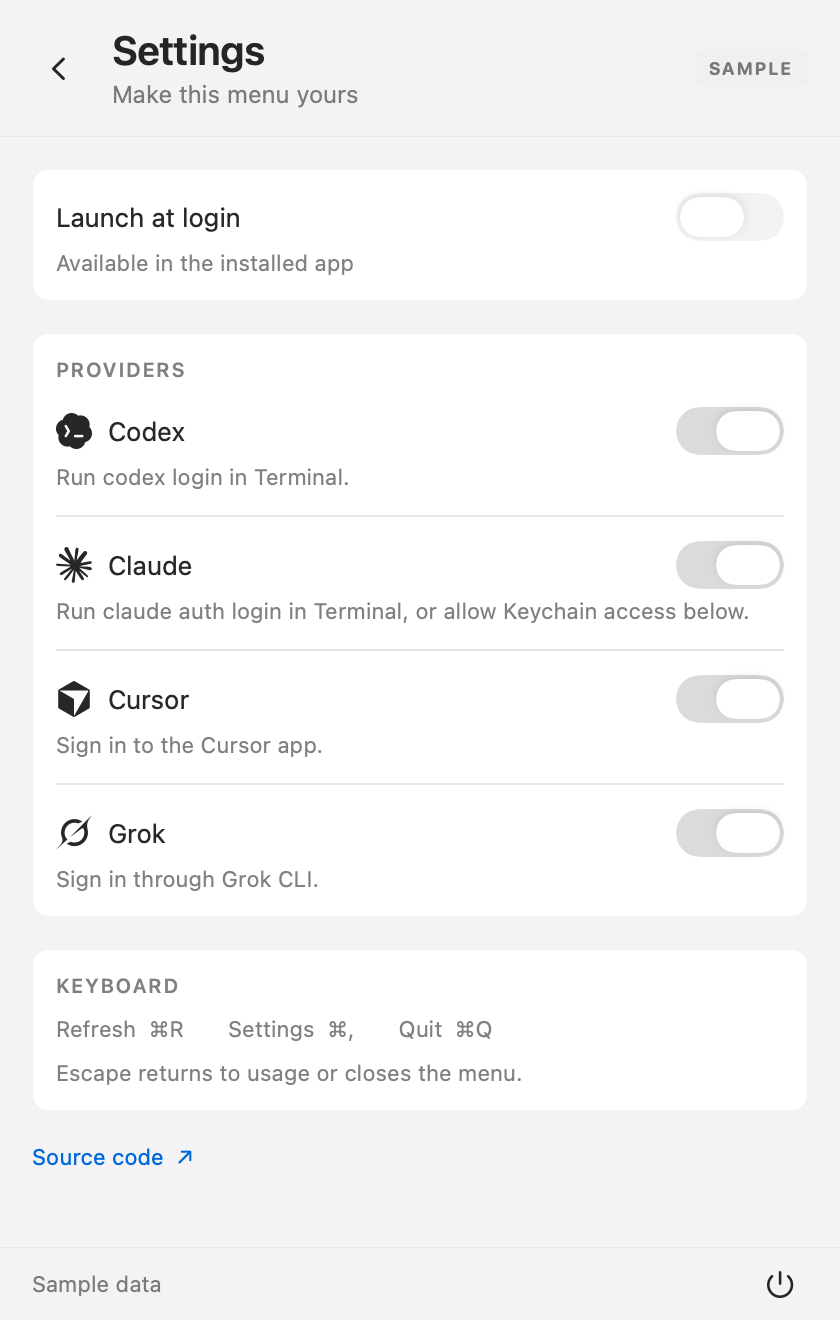
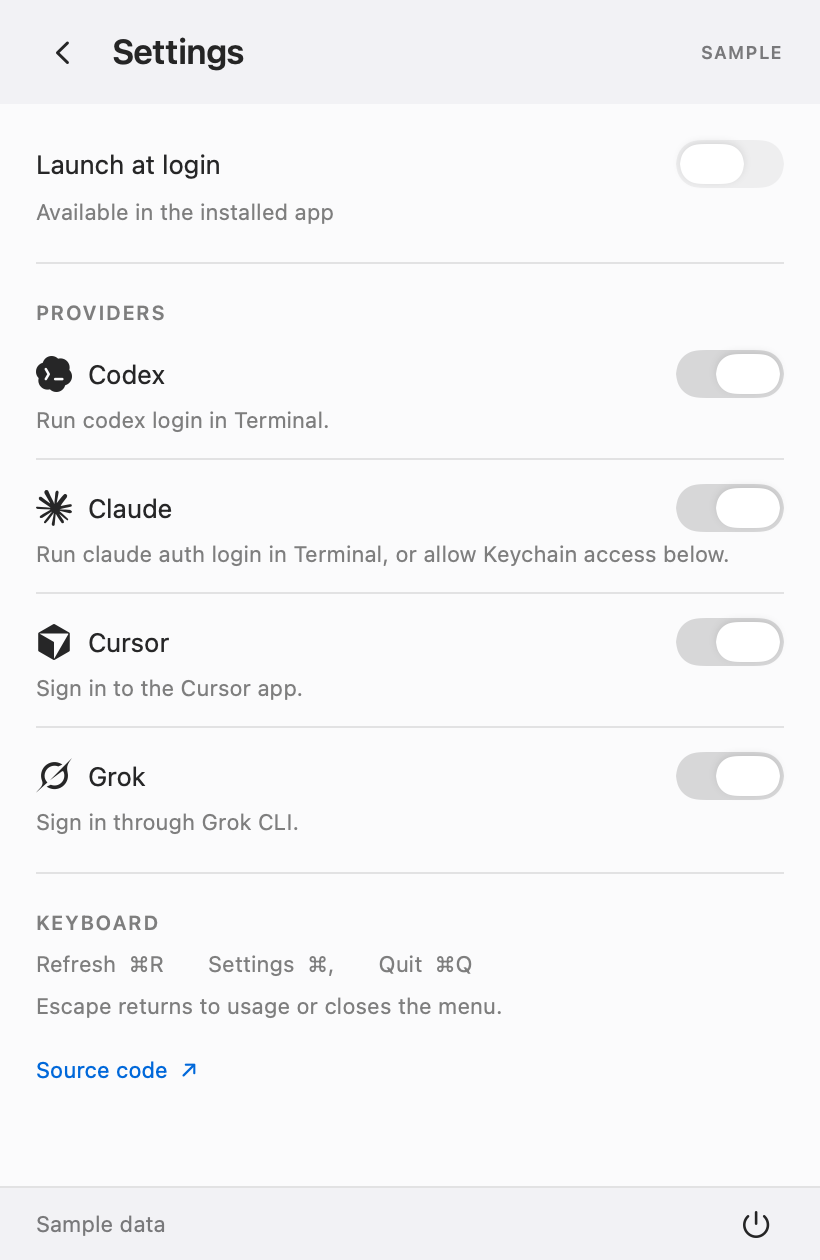
docs: record QuotaBar design and installed verification

diff --git a/docs/VERIFICATION.md b/docs/VERIFICATION.md
@@ -1,21 +1,21 @@
-# Verification — v0.2.0
+# Verification — QuotaBar 0.2.0
 
-Verified on Apple silicon, macOS 26.5, Swift 6.3.3. Measurements are short local samples, not guarantees across all Macs or provider responses.
+Verified on Apple silicon, macOS 26.5, Swift 6.3.3. Measurements are short local samples, not guarantees across Macs or provider responses.
 
-- 27 synthetic behavior tests pass, covering provider JSON contracts, malformed/unknown responses, credential selection and expiry, percentages/currency units, retry bounds, and account-change state. The provider parser/client sources are unchanged in this release.
-- Independent code review approved implementation commit `6f3ef18`, including manual-only fetching, connection throttling, disclosure state, accessibility labels, keyboard monitor lifetime, and asset packaging.
-- Release packaging succeeds. `codesign --verify --strict` passes for both the packaged and installed ad hoc signed app; version is 0.2.0, build 2, and `LSUIElement` remains true.
-- Installed lifecycle probe reports `launch=ok statusItem=ok hostingView=ok size=420x660 checks=0 login=On`. Normal startup creates no usage checks. Source inspection confirms there are no polling/countdown timers or startup/wake/provider-toggle fetch calls.
-- Installed app-owned keyboard probe reports `anchor=true shown=true window=true appActive=true keyWindow=true settings=true escapeBack=true escapeDismiss=true`. It delivers synthetic events through AppKit to the actual local monitor. It uses sample data and makes no usage requests.
-- Native SwiftUI views were rendered as opaque 840×1320 PNGs and visually inspected in light, dark, settings, mixed error/unknown/zero, empty, expanded-details, and initial manual-refresh states. All four providers and their main reset times fit in the default summary. See [light](images/usage-light.png), [dark](images/usage-dark.png), and [settings](images/settings.png) previews; all contain synthetic data.
-- The packaged app rendered provider logos with its SwiftPM build resource bundle temporarily unavailable, confirming the installed assets are self-contained. License notices ship in the bundle.
-- Installed app: 1,564 KiB (about 1.5 MiB). Cold idle samples with the panel closed reported 0.0% CPU and 39.5–42.1 MiB RSS. macOS `sample` reported an 11.7 MiB physical footprint (11.9 MiB peak), excluding shared resident pages. No TCP sockets were open in the idle sample. Opening the panel and checking usage can increase memory use; the figures are not a claim of zero memory or permanent zero CPU.
-- Native desktop automation could not inspect the app because the tool timed out. Native renders and the app-owned keyboard probe cover layout, startup, key-window focus, Settings, and Escape; they do not claim end-to-end mouse/VoiceOver verification of every control.
-- Launch-at-login status was checked through `SMAppService`; no logout/reboot was performed. Existing preference choices are preserved.
+- **30 synthetic behavior tests pass.** Coverage includes provider response contracts, missing/malformed data, credential expiry and selection, used/remaining percentages and tiny nonzero values, currency units, retry bounds, and account changes. New fixtures cover Claude Max 5x/20x, generic and contradictory metadata, and 9%/71% used versus 91%/29% remaining.
+- Independent review approved code at `d3c2d411`, including plan metadata tied to the fetch credential, used-progress semantics, effective 429 retry times, first-check failure versus stale data, typed Keychain permission actions, login migration, resource packaging, and local keyboard-monitor lifetime.
+- Release packaging and `codesign --verify --strict` pass for the packaged and installed app. Version 0.2.0, build 3; `LSUIElement` remains true. The installed app contains only the QuotaBar executable, with no obsolete executable or icon left by the rename.
+- Installed startup probe: `launch=ok statusItem=ok hostingView=ok size=410x630 checks=0 login=On`. Startup makes no usage checks. Source review confirms no polling/countdown timers or startup/wake/provider-toggle fetches.
+- Installed app-owned keyboard probe: `anchor=true shown=true window=true appActive=true keyWindow=true settings=true escapeBack=true escapeDismiss=true`. It sends synthetic events through AppKit to the actual local monitor, with sample data and no provider requests.
+- Actual SwiftUI views were rendered as opaque 820×1260 PNGs and inspected in light, dark, settings, mixed/stale/unknown/zero, initial, empty, expanded, first-check failure, and Keychain-permission states. All four providers and primary reset times fit in the connected summary. [Light](images/usage-light.png), [dark](images/usage-dark.png), and [settings](images/settings.png) previews contain only synthetic data. Offscreen native switches can render inactive gray; their on/off knob positions remain visible.
+- Installed footprint: **1,388 KiB (about 1.4 MiB)**. Cold idle panel-closed samples reported **0.0% CPU**, about **39.5 MiB RSS**, and **11.2 MiB physical footprint** (11.7 MiB peak reported by macOS `sample`). No TCP sockets were open. Opening the panel and fetching usage may increase memory; these figures do not mean zero memory or permanent zero CPU.
+- Launch-at-login remains On through `SMAppService`; macOS background-task registration points to `QuotaBar.app`. The old installed app path is gone. The original bundle identifier is intentionally retained to preserve preferences and registration identity. No logout/reboot was performed.
 
-## Provider integration evidence
+## Live provider check
 
-The v0.1.0 live checks returned real Codex, Claude, and Cursor usage through existing local sessions. This visual/manual-refresh release did not repeat live provider requests automatically. Grok remains fixture-tested; a working Grok CLI login is needed for a live result. No account identities, authentic quotas, or credentials are stored in this repository.
+An explicit, one-off diagnostic check of the installed build returned live Codex, Claude and Cursor usage. Claude correctly reported Max (20x), with session and all-model weekly usage. It required no additional request for plan metadata. Grok did not have a working local sign-in and remains fixture-tested. No authentic quota values, account identities, credentials or live screenshots are saved in this repository.
+
+The application does not repeat that diagnostic on startup or in the background. Routine checks require the user's Refresh or Connect action.
 
 ## Reproduce
 
@@ -23,24 +23,28 @@ The v0.1.0 live checks returned real Codex, Claude, and Cursor usage through exi
 swift test
 ./Scripts/package.sh
 ./Scripts/install.sh
-"$HOME/Applications/Oda Limits.app/Contents/MacOS/OdaLimits" --smoke-test
-"$HOME/Applications/Oda Limits.app/Contents/MacOS/OdaLimits" --interaction-smoke-test
-.build/release/OdaLimits --render-demo /tmp/oda-limits-light.png --appearance light
-.build/release/OdaLimits --render-demo /tmp/oda-limits-dark.png --appearance dark
-.build/release/OdaLimits --render-demo /tmp/oda-limits-settings.png --settings
-.build/release/OdaLimits --render-demo /tmp/oda-limits-mixed.png --scenario mixed
-.build/release/OdaLimits --render-demo /tmp/oda-limits-expanded.png --scenario expanded
-.build/release/OdaLimits --render-demo /tmp/oda-limits-initial.png --scenario initial
+"$HOME/Applications/QuotaBar.app/Contents/MacOS/QuotaBar" --smoke-test
+"$HOME/Applications/QuotaBar.app/Contents/MacOS/QuotaBar" --interaction-smoke-test
+.build/release/QuotaBar --render-demo /tmp/quotabar-light.png --appearance light
+.build/release/QuotaBar --render-demo /tmp/quotabar-dark.png --appearance dark
+.build/release/QuotaBar --render-demo /tmp/quotabar-settings.png --settings
+.build/release/QuotaBar --render-demo /tmp/quotabar-mixed.png --scenario mixed
+.build/release/QuotaBar --render-demo /tmp/quotabar-expanded.png --scenario expanded
+.build/release/QuotaBar --render-demo /tmp/quotabar-initial.png --scenario initial
+.build/release/QuotaBar --render-demo /tmp/quotabar-failed.png --scenario failed
+.build/release/QuotaBar --render-demo /tmp/quotabar-keychain.png --scenario keychain
 ```
 
-Normal installed smoke testing can register launch at login, like a normal app launch, but does not fetch usage. Add `--demo` to avoid changing system preferences. The interaction probe always uses demo data. A live diagnostic check is available through the explicit `--diagnostics` command.
+A normal installed smoke test can register launch at login, like a normal launch, but never fetches usage. Add `--demo` to avoid system preference changes. The interaction probe always uses demo data. `--diagnostics` explicitly performs live provider checks without Keychain prompts or raw response logging.
 
-## Implementation notes
+## Boundaries and implementation notes
 
-`NSApplication.delegate` is weak. Keep the delegate alive explicitly for the whole `app.run()` lifetime. Initial popover display is deferred briefly so the new status item has attached to its window. The keyboard monitor is local to the key popover and is removed when it closes.
+Native desktop automation timed out earlier in this task. Native rendering and the app-owned probe cover layout, startup, focus, Settings and Escape; they do not establish end-to-end mouse or VoiceOver coverage of every control.
 
-Use eager layout for the four provider cards and initialize disclosure state once. Reapplying the initial value in a lazy card's `onAppear` reset expanded details when scrolling.
+`NSApplication.delegate` is weak: keep it alive for `app.run()`. Defer initial popover display until the status item attaches to its window. Keep the event monitor local to this key popover and remove it on close. Initialize disclosure state once so scrolling does not reset it.
 
-On a first installation, `SMAppService.mainApp.status` can be `.notFound`. Attempt initial registration for both `.notFound` and `.notRegistered`; preserve the preference marker so a later choice to disable startup remains respected.
+The first installed `SMAppService` status may be `.notFound`; register it on first launch. On rename, re-register an already-enabled login item at the new location without turning an explicit Off back on. Retain a migration marker if registration fails so a later launch can retry. Replacing bundle Contents during installation avoids old executable/resource files surviving a directory merge.
 
-Provider usage endpoints are not a stable public cross-provider API. Optional values remain unknown, empty/unrecognized responses are rejected, and fixture coverage should be updated when schemas change. Explicit manual checks still honor provider 429 retry limits.
+Provider usage endpoints are undocumented contracts. Missing values stay unknown and unrecognized responses are rejected. Claude plan metadata can lag subscription changes until the provider refreshes the local sign-in. Explicit manual checks still respect 429 cooldowns, and the displayed retry time matches the actual enforced cooldown.
+
+The GitHub workflow uses the standard Intel macOS 15 runner after ARM jobs failed to acquire runners. AppKit image caches are main-actor isolated so both the older CI SDK and the local SDK compile without suppressing concurrency checks. Local runtime verification covers Apple silicon.

diff --git a/SPEC.md b/SPEC.md
@@ -1,21 +1,21 @@
-# Oda Limits
+# QuotaBar
 
 ## Objective and scope
-A personal, open-source, native macOS menu bar utility for the user's Codex, Claude, Cursor, and Grok subscriptions. One icon opens four compact cards with authoritative usage, remaining allowance, reset countdown and local reset date, plan, credit/spend details where supplied, connection/freshness status, refresh, and provider dashboard links. Launch at login is enabled on first installed launch, with a visible toggle to disable it. One current account per installed provider; no multi-account management in v0.1.
+A personal, open-source, native macOS menu bar utility for the user's Codex, Claude, Cursor, and Grok subscriptions. One icon opens four compact provider sections with authoritative usage, remaining allowance, reset countdown and local reset date, plan, credit/spend details where supplied, connection/freshness status, refresh, and provider dashboard links. Launch at login is enabled on first installed launch, with a visible toggle to disable it. One current account per installed provider; no multi-account management in v0.1.
 
-The user authorized building and installing this utility and creating a public repository under odaofficial. The implementation is separate from the Oda application checkout. Repository: https://github.com/odaofficial/oda-limits. Product name: Oda Limits. Bundle identifier: org.odaofficial.limits. MIT license, copyright Oda contributors.
+The user authorized building and installing this utility and creating a public repository under odaofficial. The implementation is separate from the Oda application checkout. Repository: https://github.com/odaofficial/quotabar. Product name: QuotaBar. The legacy bundle identifier org.odaofficial.limits is retained only to preserve preferences and login registration across the rename. MIT license, copyright Oda contributors.
 
 ## Architecture and resource budget
 Swift 6 / SwiftPM, macOS 14+, AppKit status item and SwiftUI popover. Only system frameworks: Foundation, AppKit, SwiftUI, Security, ServiceManagement, SQLite3 as needed. No third-party packages, embedded browser, node runtime, cloud service, analytics, LLM calls, background subprocess daemon or history scans.
 
 Use existing local provider sessions read-only. Prefer direct authenticated read-only HTTP usage endpoints over launching provider CLIs. Never refresh or modify provider-owned tokens. If expired, display concrete sign-in instructions and let the provider refresh its own credentials. Read credentials off the main thread; Keychain prompting only through explicit user action. Credentials only in memory; no secret or identifying response bodies in logs, tests, docs, diagnostics, Git, command arguments, or URLs. No credential import UI or copying of tokens into app preferences. Network requests go only to each provider's fixed HTTPS origin; reject redirects to other origins. Ephemeral URLSession with bounded request timeout and response size. Handle 401/403/429, Retry-After/backoff, non-JSON and changed response contracts honestly.
 
-Usage checks are manual only, triggered by Refresh or explicit Claude connection. Startup, waking the Mac, opening the panel, and changing enabled providers never fetch data. No polling or countdown timers. Relative reset labels update when opening the panel or refreshing; exact reset times remain available in tooltips. Manual refresh is throttled to avoid accidental hammering and respects provider retry limits; no concurrent requests. Target installed app <2 MiB, idle CPU <0.5%, idle physical memory <100 MB on this Mac; measure and report actuals, never claim an unmeasured budget.
+Usage checks are manual only, triggered by Refresh or explicit Claude connection. Startup, waking the Mac, opening the panel, and changing enabled providers never fetch data. No polling or countdown timers. Relative reset labels update when opening the panel or refreshing; exact reset times remain available in tooltips. Manual refresh responds immediately and respects provider retry limits; no concurrent requests or silent generic cooldown. Target installed app <2 MiB, idle CPU <0.5%, idle physical memory <100 MB on this Mac; measure and report actuals, never claim an unmeasured budget.
 
 ## Interface
-Single monochrome context-card status icon, no Dock icon, normal popover dismissed outside. Compact 420 × 660 point popover with scroll for expanded details. Clear light/dark native presentation; no decorative hero content. Header title, Refresh and Settings icons, and loading state. Cards ordered Codex, Claude, Cursor, Grok, identified by provider logos with names in tooltips and accessibility labels. Keep names visible in Settings. Show remaining percentages, independent allowance windows, bars, next reset and absolute reset tooltip, plan, and extras only when known. Unknown values stay unknown, missing windows do not become 0%. Past resets say awaiting refresh, never assumed fully reset. Last success stays visibly stale after refresh failure but is discarded if account changes during the next manual check. Labels and controls must be accessible. See docs/DESIGN.md for the 0.2.0 design contract and skill attribution.
+Single monochrome context/chat status icon, no Dock icon, normal popover dismissed outside. Compact 410 × 630 point popover with scroll for expanded details. Clear light/dark native presentation; no decorative hero content. Header title, Refresh and Settings icons, and loading state. Sections ordered Codex, Claude, Cursor, Grok, identified by provider logos with names in tooltips and accessibility labels. Keep names visible in Settings. Show used percentages and used bars, secondary remaining percentages, independent allowance windows, next reset and absolute reset tooltip, plan, and extras only when known. Unknown values stay unknown, missing windows do not become 0%. Past resets say awaiting refresh, never assumed fully reset. Last success stays visibly stale after refresh failure but is discarded if account changes during the next manual check. Labels and controls must be accessible. See docs/DESIGN.md for the 0.2.0 design contract and skill attribution.
 
-Footer shows last check, manual-refresh status, and Quit icon. Settings have launch-at-login status/toggle, enabled-provider toggles, open source link, and provider-specific setup help. Before the first manual check, prompt Refresh instead of assuming a missing login. If no login is available after checking, show useful connection instructions with the existing CLI/app login command. Never open login dialogs at startup. Claude has an explicit Connect/Allow Keychain action if needed. Login registration must run only from installed app and reflect actual SMAppService status including requiresApproval.
+Footer shows last check, manual-refresh status, and Quit icon. Settings have launch-at-login status/toggle, enabled-provider toggles, open source link, and provider-specific setup help. Before the first manual check, prompt Refresh instead of assuming a missing login. If no login is available after checking, show useful connection instructions with the existing CLI/app login command. Never open login dialogs at startup. Claude has an explicit Connect/Allow Keychain action only for a Keychain permission failure. Recognized plan metadata from the credential used for the request supplies the Max tier without an additional request; unknown or contradictory metadata never invents a tier. Login registration must run only from installed app and reflect actual SMAppService status including requiresApproval.
 
 ## Implementation slices
 1. Foundation data models, sanitization, parsers and semantic tests using synthetic fixtures. Include Codex extra rate buckets, Claude session/weekly/model limits and extra usage, Cursor plan/on-demand pools, Grok weekly pool and reported reset extras. Match verified current contracts; don't invent endpoints or units.
@@ -24,12 +24,12 @@ Footer shows last check, manual-refresh status, and Quit icon. Settings have lau
 4. Independent review and fixes, offline tests, actual live app and provider verification, resource sampling, README and privacy/security docs, public push and release zip.
 
 ## Structure and commands
-- Package.swift, Sources/OdaLimitsCore (models/parsers/providers), Sources/OdaLimits (UI/main), Tests/OdaLimitsCoreTests, Scripts, docs.
+- Package.swift, Sources/QuotaBarCore (models/parsers/providers), Sources/QuotaBar (UI/main), Tests/QuotaBarCoreTests, Scripts, docs.
 - swift test
 - swift build -c release
-- ./Scripts/package.sh (dist/Oda Limits.app; ad hoc sign locally)
-- ./Scripts/install.sh (~/Applications/Oda Limits.app, no sudo, preserving other apps)
-- .build/release/OdaLimits --diagnostics (read-only live smoke test; redacted output)
+- ./Scripts/package.sh (dist/QuotaBar.app; ad hoc sign locally)
+- ./Scripts/install.sh (~/Applications/QuotaBar.app, no sudo, preserving other apps)
+- .build/release/QuotaBar --diagnostics (read-only live smoke test; redacted output)
 - app executable --demo --show (synthetic data; no credentials/network/login-registration/preferences writes)
 
 Use simple Swift structs and explicit nullable fields, small helpers, no generic provider plugin framework. Example: struct UsageWindow { let title: String; let usedPercent: Double?; let resetsAt: Date? }. Decoder does not promote missing/invalid data to successful zero usage. Snapshot timestamps correspond to actual retrieval.

diff --git a/README.md b/README.md
@@ -10,7 +10,7 @@ All screenshots use sample data. The app starts idle; press the refresh icon or 
 
 ## Download
 
-The [latest release](https://github.com/odaofficial/quotabar/releases/latest) includes an Apple silicon app for macOS 14+. Extract it, move **QuotaBar.app** to `~/Applications` or `/Applications`, and open it. The context-card icon appears in the menu bar. Usage checks run when you press Refresh; the app has no background polling, embedded browser, or always-running helper.
+The [latest release](https://github.com/odaofficial/quotabar/releases/latest) includes an Apple silicon app for macOS 14+. Extract it, move **QuotaBar.app** to `~/Applications` or `/Applications`, and open it. The context/chat icon appears in the menu bar. Usage checks run when you press Refresh; the app has no background polling, embedded browser, or always-running helper.
 
 Release binaries are ad hoc signed for local use, not Apple-notarized. If macOS refuses to open the downloaded binary, build from source below or review it before using the macOS app-approval flow. Do not disable Gatekeeper globally.
 
@@ -62,7 +62,7 @@ The previews are opaque 410 × 630 point PNGs at 2× resolution. While the popov
 ## Provider setup
 
 - **Codex:** Run `codex login`. The app reads `~/.codex/auth.json`, or `$CODEX_HOME/auth.json`, and asks the ChatGPT usage endpoint. Some Codex installs keep credentials only in Keychain; those sessions may require signing in through the CLI to create the file.
-- **Claude:** Run `claude auth login`. The app reads `~/.claude/.credentials.json`, or `$CLAUDE_CONFIG_DIR/.credentials.json`. If needed, choose **Connect Claude Keychain** in the popover to allow the existing Claude Code Keychain entry. No prompt appears at startup.
+- **Claude:** Run `claude auth login`. The app reads `~/.claude/.credentials.json`, or `$CLAUDE_CONFIG_DIR/.credentials.json`. If needed, choose **Connect Claude Keychain** in the popover to allow the existing Claude Code Keychain entry. No prompt appears at startup. Recognized Claude plan tiers come from the same sign-in metadata; after changing plans, re-authenticate through Claude if that metadata is out of date.
 - **Cursor:** Sign in to the Cursor desktop app. QuotaBar reads Cursor's local SQLite state in read-only mode.
 - **Grok:** Run `grok login`. The app reads `$GROK_HOME/auth.json` or `~/.grok/auth.json`. Expired Grok sessions must be renewed by Grok CLI; QuotaBar cannot refresh them.
 
@@ -74,4 +74,4 @@ See [Privacy and security](docs/PRIVACY.md) for data handling details.
 
 See [verification notes](docs/VERIFICATION.md) for test coverage, observed resource use, and live integration limits. Grok requires a working Grok CLI login; its parser is fixture-tested in this release.
 
-The implementation is original Swift code. The 0.2.0 panel follows the [macOS design skill](https://github.com/ceorkm/macos-design-skill/blob/main/SKILL.md). [Provider marks and licenses](docs/THIRD-PARTY.md) are recorded separately. Usage contracts were checked against [OpenAI Codex](https://github.com/openai/codex), [xAI Grok Build](https://github.com/xai-org/grok-build), and [CodexBar](https://github.com/steipete/CodexBar). Thanks to those projects for documenting their integration behavior. Provider names and marks belong to their respective owners; this app is not affiliated with the providers.
+The implementation is original Swift code. The 0.2.0 panel applies the user-selected Apple Design skill, drawing on [Apple’s Designing Fluid Interfaces](https://developer.apple.com/videos/play/wwdc2018/803/), alongside the [macOS design skill](https://github.com/ceorkm/macos-design-skill/blob/main/SKILL.md). [Provider marks and licenses](docs/THIRD-PARTY.md) are recorded separately. Usage contracts were checked against [OpenAI Codex](https://github.com/openai/codex), [xAI Grok Build](https://github.com/xai-org/grok-build), and [CodexBar](https://github.com/steipete/CodexBar). Thanks to those projects for documenting their integration behavior. Provider names and marks belong to their respective owners; this app is not affiliated with the providers.
